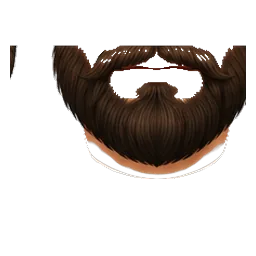
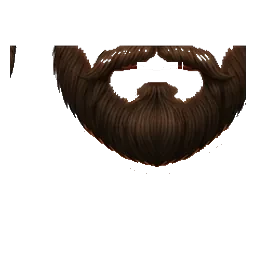
Play: beards, face paint and glasses fitted to the face
The face is now drawn in layers (skin, paint, beard, eyes and mouth,
glasses), so paint across the eyes leaves them showing and a beard frames
the mouth instead of covering it. A beard's moustache and the paint are
placed on each face's own mouth and eyes. The beard and paint pictures are
cleaned of the skin, chin rim, lip lines and specks left from the artwork,
and the prints of their shirt shards. The dragon, lightning, tribal and
claw prints are taken out (broken cut-outs; the claw read as blood); the
Ruta proeza gives the tree print instead. The sunglasses accessory and a
pair of glasses no longer sit on the face together, and the sunglasses sit
on the eyes.

Claude-Session: https://claude.ai/code/session_01St1KEs8WV9Kiu8UFwoma2x

diff --git a/platform/src/ui/play/character/build.ts b/platform/src/ui/play/character/build.ts
@@ -1,6 +1,6 @@
 import * as THREE from 'three';
 import { DEFAULT_LOOK, lookImage, lookOption, shapesOf, type Look } from '@/config/play-looks';
-import { FACE_SHELL, faceTextures, type FaceState } from './face';
+import { FACE_SHELL, faceLayout, faceTextures, faceTheta, type FaceState } from './face';
 
 /**
  * The Yavaya Play character (docs/PLAY.md): one model for every game, built
@@ -19,6 +19,14 @@ import { FACE_SHELL, faceTextures, type FaceState } from './face';
  * and fall, a squash on landing, a cheer and two emotes. Every joint eases
  * toward where it should be, so one pose flows into the next.
  */
+
+/**
+ * How the owner's beard and paint pictures are laid out (public/play/looks):
+ * a beard picture's moustache ends, and its mouth gap begins, `mouthY` down
+ * its 256 rows; a paint picture is drawn round eyes `PAINT_EYE_Y` down.
+ */
+const BEARD = { phiLength: 2.2, thetaLength: 1.15, mouthY: 74 };
+const PAINT_EYE_Y = 138;
 
 /** Pictures from /play/looks, loaded once per page and shared by every character that wears them. */
 const pictureCache = new Map<string, THREE.Texture>();
@@ -256,23 +264,49 @@ export function buildCharacter(initial: Look = DEFAULT_LOOK, options: { outline?
     wear(skull);
     for (const side of [1, -1]) wear(shape(ball(0.05, 10, 8), skin, head, [side * 0.205, 0.0, 0.0]));
     wear(shape(ball(0.022, 10, 8), new THREE.Color(skin).multiplyScalar(0.97).getHex(), head, [0, -0.04, 0.21], false));
-    faces = faceTextures(given.face, hairColor, { skin, faceImage: lookImage('face', given.face), paintImage: lookImage('paint', given.paint) });
+    /*
+     * The face in layers, back to front: skin, face paint, beard, then the
+     * face itself (eyes, brows, mouth), then glasses. The eyes and the mouth
+     * are always on top, so paint across the eyes leaves them showing and a
+     * beard frames the mouth instead of covering it. None of the layers write
+     * depth; the order is theirs (renderOrder), the skull hides what is behind.
+     */
+    const faceImage = lookImage('face', given.face);
+    const layout = faceLayout(given.face, Boolean(faceImage));
+    faces = faceTextures(given.face, hairColor, { skin, faceImage });
     faceMaterial = new THREE.MeshBasicMaterial({ map: faces[face], transparent: true, depthWrite: false });
     const shell = new THREE.Mesh(
       keep(new THREE.SphereGeometry(0.2175, 28, 20, Math.PI / 2 - FACE_SHELL.phiLength / 2, FACE_SHELL.phiLength, FACE_SHELL.thetaStart, FACE_SHELL.thetaLength)),
       faceMaterial,
     );
     shell.scale.set(1, 1.05, 0.98);
-    shell.renderOrder = 2;
+    shell.renderOrder = 4;
     head.add(shell);
     wear(shell);
 
-    // A beard: a picture on a shell over the lower face (mouth to under the chin), below the face's own.
+    // Face paint: the owner's pictures are drawn round eyes at PAINT_EYE_Y; moved to this face's eyes.
+    const paintUrl = lookImage('paint', given.paint);
+    if (paintUrl) {
+      const paintMaterial = new THREE.MeshBasicMaterial({ map: picture(paintUrl), transparent: true, depthWrite: false });
+      owned.push(paintMaterial);
+      const shift = faceTheta(layout.eyeY) - faceTheta(PAINT_EYE_Y);
+      const layer = new THREE.Mesh(
+        keep(new THREE.SphereGeometry(0.2172, 28, 20, Math.PI / 2 - FACE_SHELL.phiLength / 2, FACE_SHELL.phiLength, FACE_SHELL.thetaStart + shift, FACE_SHELL.thetaLength)),
+        paintMaterial,
+      );
+      layer.scale.set(1, 1.05, 0.98);
+      layer.renderOrder = 2;
+      head.add(layer);
+      wear(layer);
+    }
+
+    // A beard: a picture on a shell over the lower face, its moustache just above this face's mouth.
     const beardUrl = lookImage('beard', given.beard);
     if (beardUrl) {
       const beardMaterial = new THREE.MeshStandardMaterial({ map: picture(beardUrl), transparent: true, depthWrite: false, roughness: 0.9 });
       owned.push(beardMaterial);
-      const beard = new THREE.Mesh(keep(new THREE.SphereGeometry(0.2205, 28, 14, Math.PI / 2 - 1.1, 2.2, 1.6, 1.15)), beardMaterial);
+      const start = faceTheta(layout.mouthTop) - (BEARD.thetaLength * BEARD.mouthY) / 256;
+      const beard = new THREE.Mesh(keep(new THREE.SphereGeometry(0.2205, 28, 14, Math.PI / 2 - BEARD.phiLength / 2, BEARD.phiLength, start, BEARD.thetaLength)), beardMaterial);
       beard.scale.set(1, 1.05, 0.99);
       beard.renderOrder = 3;
       head.add(beard);
@@ -285,7 +319,7 @@ export function buildCharacter(initial: Look = DEFAULT_LOOK, options: { outline?
       owned.push(glassesMaterial);
       const lens = new THREE.Mesh(keep(new THREE.CylinderGeometry(0.235, 0.235, 0.09, 24, 1, true, -0.75, 1.5)), glassesMaterial);
       lens.position.set(0, 0.005, -0.012);
-      lens.renderOrder = 4;
+      lens.renderOrder = 5;
       head.add(lens);
       wear(lens);
     }
@@ -440,8 +474,12 @@ export function buildCharacter(initial: Look = DEFAULT_LOOK, options: { outline?
         on(ball(0.022, 8, 6), accessory.accent!, head, [0, 0.25, -0.02], undefined, false);
         break;
       case 'lentes':
-        for (const side of [1, -1]) on(keep(new THREE.CylinderGeometry(0.056, 0.056, 0.015, 18)), accessory.color!, head, [side * 0.085, 0.0, 0.215], [Math.PI / 2, 0, 0]);
-        on(keep(new THREE.BoxGeometry(0.06, 0.012, 0.012)), accessory.color!, head, [0, 0.015, 0.228], undefined, false);
+        // Round lenses on the eyes (about 0.072 either side, just above the middle of the head), not over the brows.
+        // Never with a pair of glasses: they would sit in the same place (an older saved look may have both).
+        if (glassesUrl) break;
+        // Each lens turned a little outward, with the face's curve.
+        for (const side of [1, -1]) on(keep(new THREE.CylinderGeometry(0.044, 0.044, 0.012, 18)), accessory.color!, head, [side * 0.074, 0.01, 0.212], [Math.PI / 2, 0, -side * 0.33]);
+        on(keep(new THREE.BoxGeometry(0.05, 0.01, 0.01)), accessory.color!, head, [0, 0.016, 0.226], undefined, false);
         break;
       case 'sombrero':
         on(keep(new THREE.CylinderGeometry(0.36, 0.37, 0.022, 28)), accessory.color!, head, [0, 0.14, 0], [-0.08, 0, 0]);

diff --git a/platform/src/ui/play/character/face.ts b/platform/src/ui/play/character/face.ts
@@ -16,6 +16,26 @@ export const FACE_SHELL = { phiLength: 1.8, thetaStart: 0.75, thetaLength: 1.35 
 
 export type FaceState = 'normal' | 'blink' | 'happy';
 
+/** Canvas height (0…256 down the face picture) to the angle down the head sphere, as the face shell maps it. */
+export function faceTheta(y: number): number {
+  return FACE_SHELL.thetaStart + (FACE_SHELL.thetaLength * y) / 256;
+}
+
+/*
+ * Where the eyes and the top of the mouth are in a face's picture, so what
+ * is worn over a face (a beard, face paint) can be placed on that face
+ * rather than at one fixed height. The owner's painted faces are drawn
+ * larger than the built-in ones: eyes higher, mouth lower.
+ */
+const PAINTED = { eyeY: 138, mouthTop: 222 };
+export function faceLayout(face: string, painted: boolean): { eyeY: number; mouthTop: number } {
+  if (painted) return PAINTED;
+  const style = STYLES[face] ?? STYLES.alegre!;
+  // The built-in mouth sits right under the nose: a beard's moustache there would hide the nose, so it
+  // lies a little lower, over the top of the mouth, which is drawn over it.
+  return { eyeY: style.eyeY, mouthTop: style.eyeY + 56 };
+}
+
 type Style = {
   /** Eye height in the picture, and their spread from the middle. */
   eyeY: number;
@@ -214,16 +234,16 @@ export function loadPicture(url: string): Promise<HTMLImageElement> {
  *
  * A painted face (`faceImage`, the owner's artwork with its skin taken out)
  * is laid over the character's own skin; it blinks by a lid of that skin
- * drawn over each eye. Face paint (`paintImage`) goes over either kind.
+ * drawn over each eye. Face paint and beards are layers of their own, under
+ * the face (character/build.ts), so the eyes and the mouth stay on top.
  * Pictures arrive after the character is built: until then the face is the
  * plain drawn one (or empty), and each picture is drawn in when it lands.
  */
-export function faceTextures(face: string, browColor: number, options: { skin?: number; faceImage?: string | null; paintImage?: string | null } = {}): Record<FaceState, THREE.CanvasTexture> {
+export function faceTextures(face: string, browColor: number, options: { skin?: number; faceImage?: string | null } = {}): Record<FaceState, THREE.CanvasTexture> {
   const style = STYLES[face] ?? STYLES.alegre!;
   const brow = `#${new THREE.Color(browColor).multiplyScalar(0.85).getHexString()}`;
   const skin = `#${new THREE.Color(options.skin ?? 0xc68a5f).getHexString()}`;
   let painted: HTMLImageElement | null = null;
-  let paint: HTMLImageElement | null = null;
   const draw = (context: CanvasRenderingContext2D, state: FaceState) => {
     if (!options.faceImage) drawFace(context, style, state, brow);
     else {
@@ -235,18 +255,17 @@ export function faceTextures(face: string, browColor: number, options: { skin?: 
           for (const x of [76, 180]) {
             context.fillStyle = skin;
             context.beginPath();
-            context.ellipse(x, 150, 30, 17, 0, 0, Math.PI * 2);
+            context.ellipse(x, PAINTED.eyeY, 30, 17, 0, 0, Math.PI * 2);
             context.fill();
             context.strokeStyle = INK;
             context.lineWidth = 4;
             context.beginPath();
-            context.arc(x, 142, 22, Math.PI * 0.2, Math.PI * 0.8);
+            context.arc(x, PAINTED.eyeY - 8, 22, Math.PI * 0.2, Math.PI * 0.8);
             context.stroke();
           }
         }
       }
     }
-    if (paint) context.drawImage(paint, 0, 0, 256, 256);
   };
   const made: Array<[FaceState, CanvasRenderingContext2D | null, THREE.CanvasTexture]> = [];
   const make = (state: FaceState) => {
@@ -270,6 +289,5 @@ export function faceTextures(face: string, browColor: number, options: { skin?: 
     }
   };
   if (options.faceImage) void loadPicture(options.faceImage).then((image) => ((painted = image), redraw())).catch(() => undefined);
-  if (options.paintImage) void loadPicture(options.paintImage).then((image) => ((paint = image), redraw())).catch(() => undefined);
   return textures;
 }

diff --git a/platform/src/config/play-looks.ts b/platform/src/config/play-looks.ts
@@ -153,9 +153,10 @@ export const LOOK_OPTIONS: Record<LookPart, Option[]> = {
   print: [
     { id: 'ninguno' },
     ...['lobo', 'atardecer', 'mariposa', 'ola'].map((id) => ({ id, image: true })),
-    { id: 'dragon', image: true, unlock: 'proeza_ruta' as const },
+    // The dragon, lightning, tribal and claw prints were taken out (14 November 2026): broken cut-outs, and
+    // the claw read as blood. The Ruta proeza gives the tree instead; no one could have paid for the others.
+    { id: 'arbol', image: true, unlock: 'proeza_ruta' as const },
     { id: 'lobo_dorado', image: true, unlock: 'proeza_total' as const },
-    ...['relampago', 'arbol', 'tribal', 'zarpazo'].map((id) => ({ id, image: true, unlock: 'gems' as const })),
   ],
   bottom: [
     { id: 'jeans', color: 0x2b3a67, accent: 0x3c4f86 },
@@ -248,6 +249,17 @@ export function unlockOf(part: LookPart, id: string): Unlock | undefined {
 /** Every option that has to be earned, as `part:id`. */
 export function earnedItems(): Array<{ item: string; part: LookPart; id: string; unlock: Unlock }> {
   return LOOK_PARTS.flatMap((part) => LOOK_OPTIONS[part].filter((o) => o.unlock).map((o) => ({ item: `${part}:${o.id}`, part, id: o.id, unlock: o.unlock! })));
+}
+
+/**
+ * A look with nothing worn twice in one place: the sunglasses accessory and
+ * a pair of glasses both sit on the eyes, so putting on one takes off the
+ * other. `changed` is the part just chosen (it wins).
+ */
+export function withoutClash(look: Look, changed: LookPart): Look {
+  if (changed === 'glasses' && look.glasses !== DEFAULT_LOOK.glasses && look.accessory === 'lentes') return { ...look, accessory: DEFAULT_LOOK.accessory };
+  if (changed === 'accessory' && look.accessory === 'lentes' && look.glasses !== DEFAULT_LOOK.glasses) return { ...look, glasses: DEFAULT_LOOK.glasses };
+  return look;
 }
 
 /** The parts of a look the player has to own, as `part:id`. */

diff --git a/platform/tests/unit/play-looks.test.ts b/platform/tests/unit/play-looks.test.ts
@@ -1,0 +1,29 @@
+import { describe, expect, it } from 'vitest';
+import { DEFAULT_LOOK, LOOK_OPTIONS, LOOK_PARTS, lookImage, parseLook, withoutClash } from '@/config/play-looks';
+import { PLAY_RULES } from '@/config/business-rules';
+import { existsSync } from 'node:fs';
+import { join } from 'node:path';
+
+describe('looks', () => {
+  it('never wears the sunglasses accessory and a pair of glasses at once: the one just chosen wins', () => {
+    const both = { ...DEFAULT_LOOK, glasses: 'redondos', accessory: 'lentes' };
+    expect(withoutClash(both, 'glasses')).toMatchObject({ glasses: 'redondos', accessory: 'ninguno' });
+    expect(withoutClash(both, 'accessory')).toMatchObject({ glasses: 'ninguno', accessory: 'lentes' });
+    const hat = { ...DEFAULT_LOOK, glasses: 'redondos', accessory: 'gorra' };
+    expect(withoutClash(hat, 'accessory')).toEqual(hat);
+  });
+
+  it('has a picture for every option that says it has one, and a price for every one sold for gems', () => {
+    for (const part of LOOK_PARTS) {
+      for (const option of LOOK_OPTIONS[part]) {
+        const url = lookImage(part, option.id);
+        if (url) expect(existsSync(join(process.cwd(), 'public', url)), url).toBe(true);
+        if (option.unlock === 'gems') expect(PLAY_RULES.gems[`${part}:${option.id}`], `${part}:${option.id}`).toBeGreaterThan(0);
+      }
+    }
+  });
+
+  it('keeps a saved look that wore a print since taken out, without the print', () => {
+    expect(parseLook({ ...DEFAULT_LOOK, print: 'zarpazo', beard: 'completa' })).toMatchObject({ print: 'ninguno', beard: 'completa' });
+  });
+});

diff --git a/platform/src/ui/play/modes/studio.ts b/platform/src/ui/play/modes/studio.ts
@@ -1,5 +1,5 @@
 import * as THREE from 'three';
-import { LOOK_OPTIONS, LOOK_PARTS, lockedParts, lookImage, lookOption, unlockOf, type Look, type LookPart } from '@/config/play-looks';
+import { LOOK_OPTIONS, LOOK_PARTS, lockedParts, lookImage, lookOption, unlockOf, withoutClash, type Look, type LookPart } from '@/config/play-looks';
 import { PLAY_RULES } from '@/config/business-rules';
 import { buildCharacter, type Emote } from '../character/build';
 import { disposeScene, type Mode } from '../engine/runtime';
@@ -152,7 +152,7 @@ export function createStudio(play: PlayContext, options: { first: boolean }): Mo
     );
   };
   const choose = (which: LookPart, id: string) => {
-    look = { ...look, [which]: id };
+    look = withoutClash({ ...look, [which]: id }, which);
     hero.dress(look);
     renderOptions();
     note.textContent = unlockOf(which, id) && !owned().has(`${which}:${id}`) ? howToGet(which, id) : '';
@@ -187,7 +187,7 @@ export function createStudio(play: PlayContext, options: { first: boolean }): Mo
       const choices = LOOK_OPTIONS[each].filter((o) => !o.unlock || have.has(`${each}:${o.id}`));
       next[each] = choices[Math.floor(Math.random() * choices.length)]!.id;
     }
-    look = next;
+    look = withoutClash(next, 'glasses');
     hero.dress(look);
     renderOptions();
     play2('saludo');

diff --git a/platform/src/i18n/dictionaries/en.ts b/platform/src/i18n/dictionaries/en.ts
@@ -2587,12 +2587,8 @@ export const en: Dictionary = {
   'play.look.print.atardecer': 'Sunset',
   'play.look.print.mariposa': 'Butterfly',
   'play.look.print.ola': 'Wave',
-  'play.look.print.dragon': 'Dragon',
   'play.look.print.lobo_dorado': 'Golden wolf',
-  'play.look.print.relampago': 'Lightning bolt',
   'play.look.print.arbol': 'Tree',
-  'play.look.print.tribal': 'Tribal',
-  'play.look.print.zarpazo': 'Claw',
   'play.look.top.camuflaje': 'Camo',
   'play.look.top.tie_dye': 'Tie-dye',
   'play.look.top.galaxia': 'Galaxy',

diff --git a/platform/src/i18n/dictionaries/es.ts b/platform/src/i18n/dictionaries/es.ts
@@ -2613,12 +2613,8 @@ export const es = {
   'play.look.print.atardecer': 'Atardecer',
   'play.look.print.mariposa': 'Mariposa',
   'play.look.print.ola': 'Ola',
-  'play.look.print.dragon': 'Dragón',
   'play.look.print.lobo_dorado': 'Lobo dorado',
-  'play.look.print.relampago': 'Relámpago',
   'play.look.print.arbol': 'Árbol',
-  'play.look.print.tribal': 'Tribal',
-  'play.look.print.zarpazo': 'Zarpazo',
   'play.look.top.camuflaje': 'Camuflaje',
   'play.look.top.tie_dye': 'Tie-dye',
   'play.look.top.galaxia': 'Galaxia',

diff --git a/platform/src/config/business-rules.ts b/platform/src/config/business-rules.ts
@@ -1215,10 +1215,6 @@ export const PLAY_RULES = {
     'glasses:persiana': 40,
     'glasses:neon': 70,
     'glasses:corazon': 40,
-    'print:relampago': 60,
-    'print:arbol': 50,
-    'print:tribal': 30,
-    'print:zarpazo': 70,
     'top:galaxia': 90,
     'top:cuadros': 90,
   } as Record<string, number>,

diff --git a/platform/docs/PLAY.md b/platform/docs/PLAY.md
@@ -205,7 +205,7 @@ the script and the cut-outs are not in the repository).
   of the eyes; a print a patch of the torso's own shape. They are pictures,
   not modelled 3D, so seen from the side they are flat; from the front, as
   in the studio, they read as the artwork.
-- **Tiers:** about half free (31), a fifth won (11), a third exclusive (19 for
+- **Tiers:** about half free (31), a fifth won (11), the rest exclusive (15 for
   gems). All-ages: revealing outfits, blood, skulls and copied logos from
   the sheets were left out.
 - **Proezas:** a course with no fall, no checkpoint, and a time at or under
@@ -224,6 +224,26 @@ the script and the cut-outs are not in the repository).
   picture into a 3D piece needs paid image-to-3D generation (about 35
   credits an item on the connected service; the account had 2), and a
   garment that bends with the body cannot come from one picture at all.
+
+### Fitting them to the face (14 November 2026)
+
+The owner's screenshots showed the first batch close but not right: beards
+on the teeth, paint over the eyes, two pairs of glasses at once. Now:
+
+- **Layers** (`character/build.ts`), back to front: skin, face paint, beard,
+  the face (eyes, brows, mouth), glasses. The eyes and the mouth are always
+  on top, so paint across the eyes leaves them showing and a beard frames
+  the mouth. Each is a shell of its own; their order is `renderOrder`.
+- **Placed per face** (`faceLayout` in `character/face.ts`): a beard's
+  moustache goes just above that face's mouth (a painted face's mouth is
+  lower than a built-in one's), and paint is moved to that face's eyes.
+- **Pictures cleaned:** the skin, pale chin rim and lip lines left in the
+  beards from the artwork, stray specks on two paints, and shirt shards on
+  the prints. Three prints were broken cut-outs (dragon, lightning, tribal)
+  and the claw print read as blood: taken out; the Ruta proeza now gives the
+  tree print (gems could not yet be bought, so no one had paid for them).
+- **Sunglasses vs glasses:** choosing one takes off the other
+  (`withoutClash`); an older saved look with both shows only the glasses.
 
 ## The Vault (13 November 2026)
 
